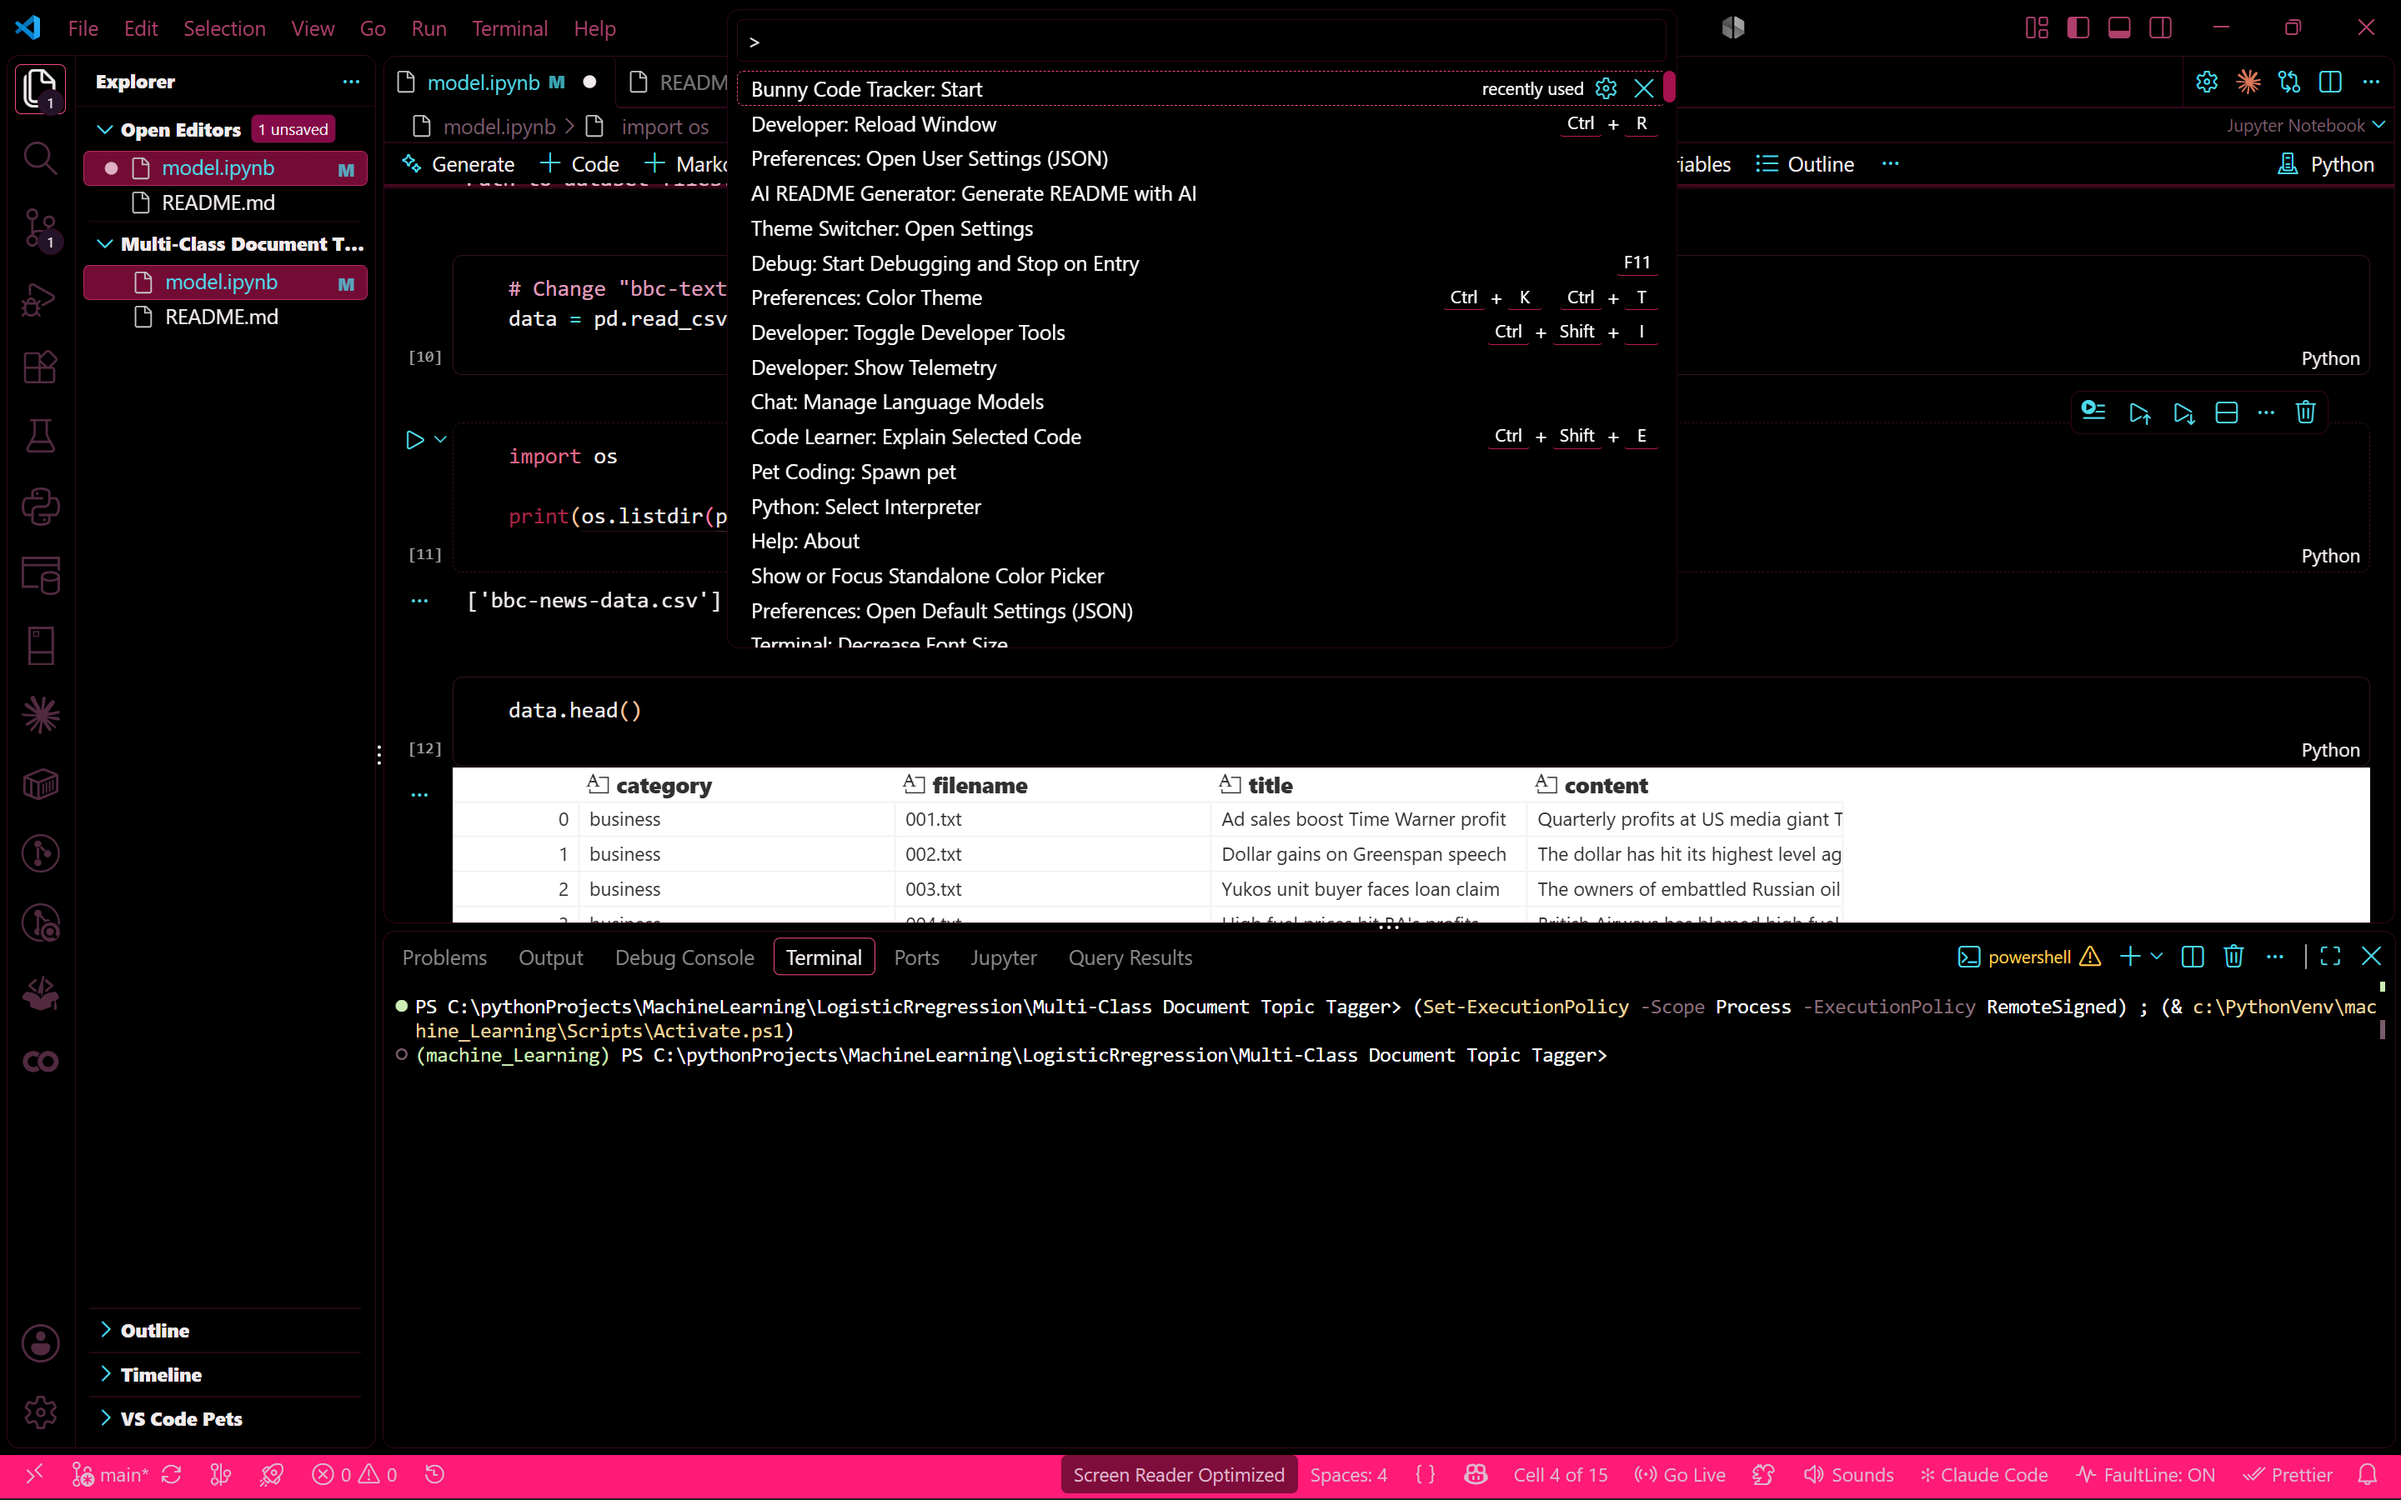
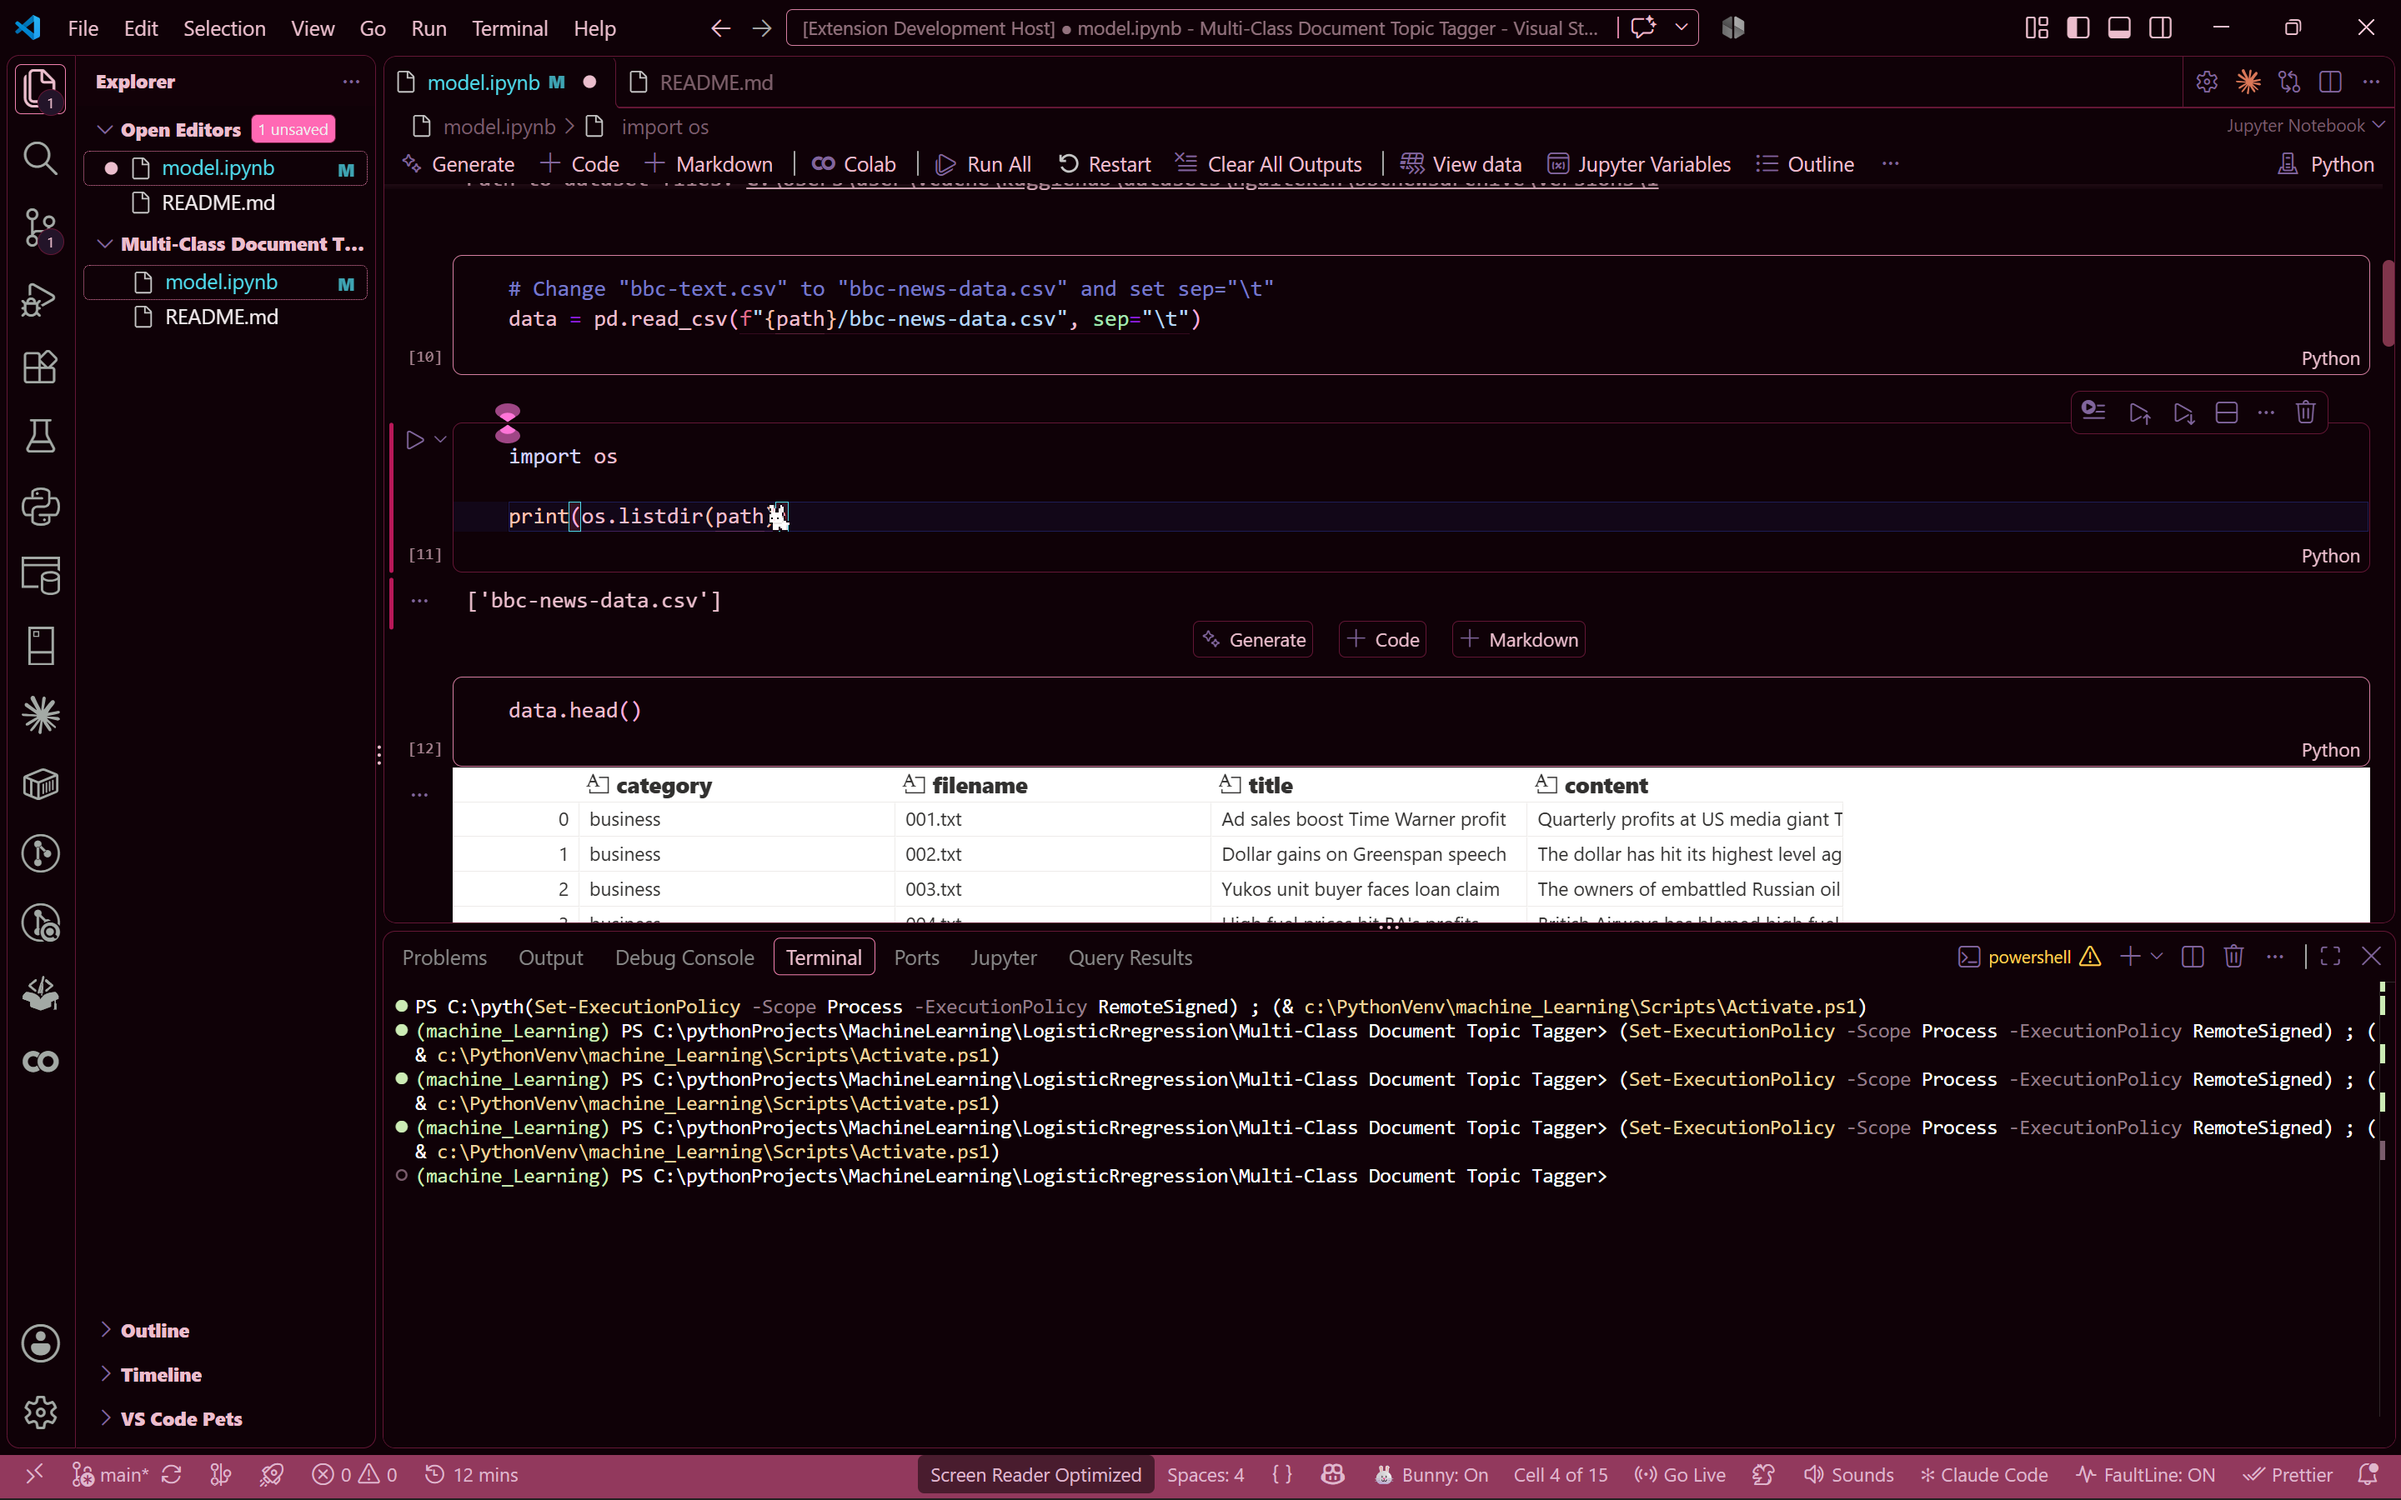
fixed on and off button

diff --git a/src/extension.ts b/src/extension.ts
@@ -76,6 +76,7 @@ const EXIT_PX = 10;              // how far below a cell's last line (+ half a l
 let spriteFolder: vscode.Uri;
 let bunnyVisible = false;
 let loopTimer: NodeJS.Timeout | undefined;
+let statusItem: vscode.StatusBarItem | undefined;
 
 // What the bunny currently lives in: one document, or one whole notebook
 let bunnyScope = '';
@@ -138,18 +139,31 @@ export function activate(context: vscode.ExtensionContext) {
 
     context.subscriptions.push({ dispose: disposeAll });
 
+    // Status bar button: click to switch the bunny on / off for this window.
+    // Once on, it follows you into every file and notebook in the window.
+    statusItem = vscode.window.createStatusBarItem(
+        vscode.StatusBarAlignment.Right, 100
+    );
+    statusItem.command = 'bunny-code-tracker.start';
+    updateStatusItem();
+    statusItem.show();
+    context.subscriptions.push(statusItem);
+
     context.subscriptions.push(
         vscode.commands.registerCommand('bunny-code-tracker.start', () => {
-            bunnyVisible = !bunnyVisible;
-
-            if (bunnyVisible) {
-                spawnBunny(vscode.window.activeTextEditor);
-                loopTimer = setInterval(loop, LOOP_MS);
-            } else {
-                despawnBunny();
-            }
+            setBunny(!bunnyVisible);
         })
     );
+
+    // Auto start: bring the bunny up as soon as VS Code opens (can be turned off
+    // in settings). If no editor is open yet, the loop picks one up when it is.
+    const autoStart = vscode.workspace
+        .getConfiguration('bunnyCodeTracker')
+        .get<boolean>('autoStart', true);
+
+    if (autoStart) {
+        setBunny(true);
+    }
 
     // Cursor moved: remember when, the bunny notices after a beat
     context.subscriptions.push(
@@ -192,6 +206,34 @@ export function activate(context: vscode.ExtensionContext) {
             }
         })
     );
+}
+
+
+/** Switch the bunny on or off for this whole window (all files and notebooks). */
+function setBunny(on: boolean) {
+    if (on === bunnyVisible) {
+        return;
+    }
+    bunnyVisible = on;
+
+    if (bunnyVisible) {
+        spawnBunny(vscode.window.activeTextEditor);
+        loopTimer = setInterval(loop, LOOP_MS);
+    } else {
+        despawnBunny();
+    }
+
+    updateStatusItem();
+}
+
+function updateStatusItem() {
+    if (!statusItem) {
+        return;
+    }
+    statusItem.text = bunnyVisible ? '🐰 Bunny: On' : '🐰 Bunny: Off';
+    statusItem.tooltip = bunnyVisible
+        ? 'Click to hide the bunny in this window'
+        : 'Click to show the bunny in this window';
 }
 
 
@@ -815,6 +857,7 @@ function loop() {
 
 function disposeAll() {
     despawnBunny();
+    statusItem = undefined;
     for (const deco of decorationCache.values()) {
         deco.dispose();
     }
